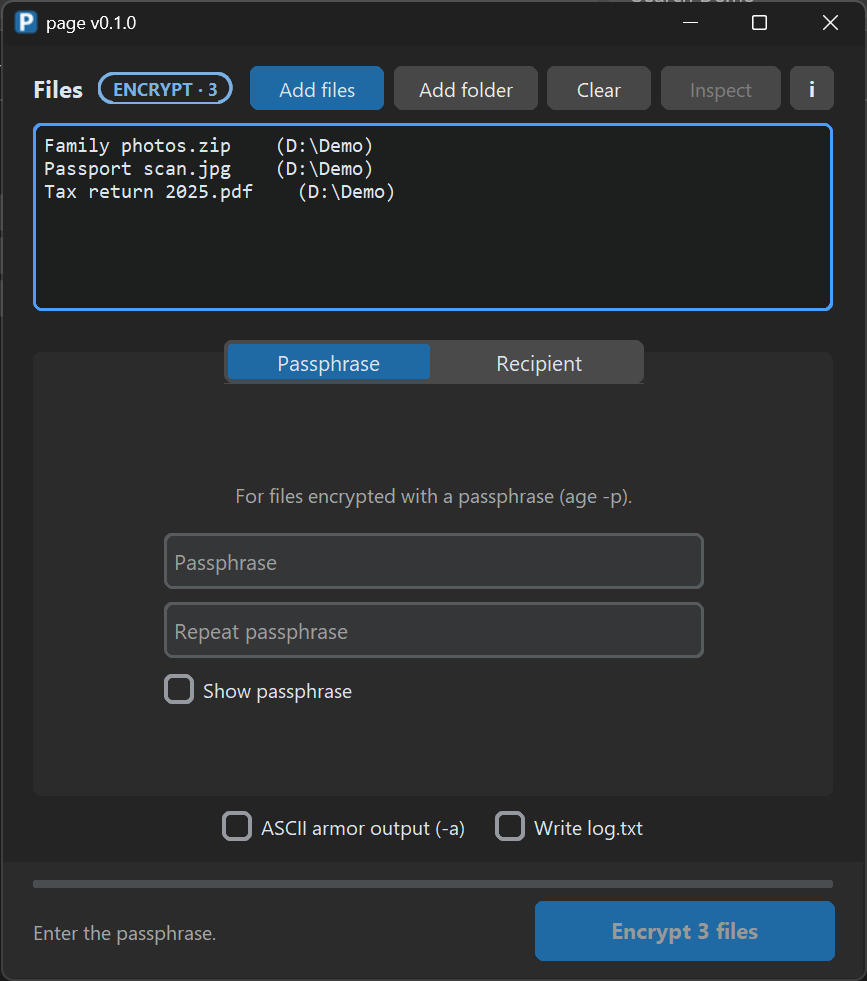
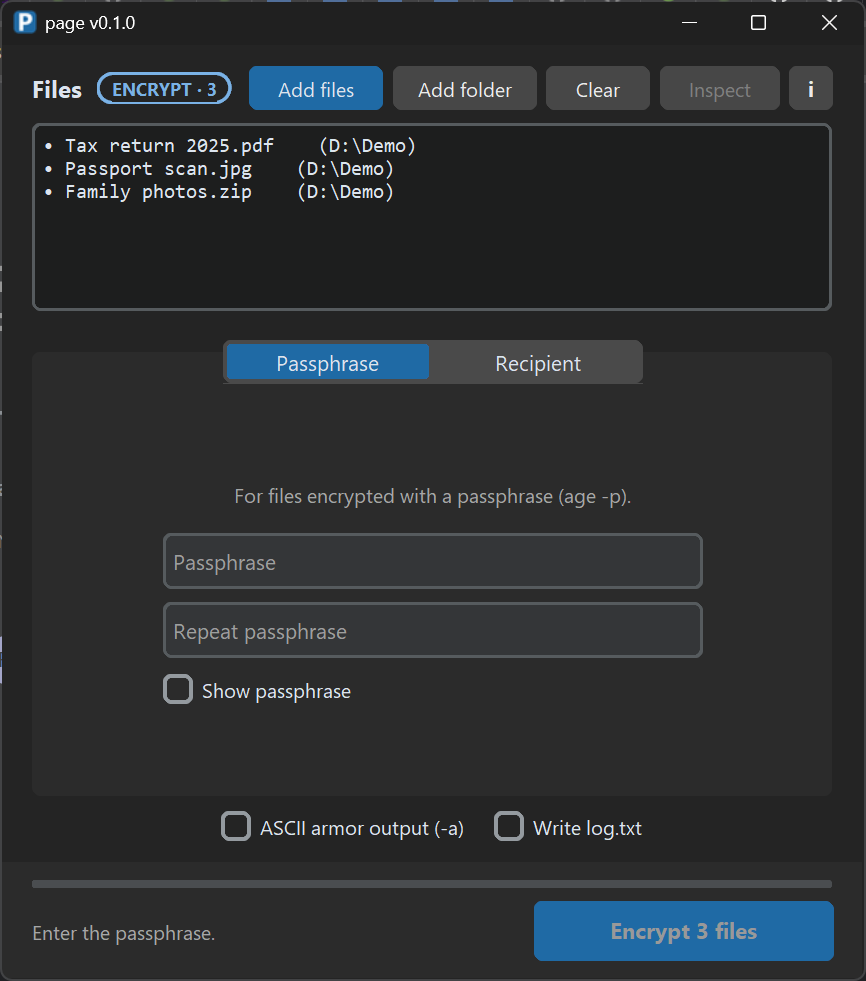
Log box: a bullet per line, wrapped text indented under it; new README screenshots

diff --git a/page.py b/page.py
@@ -85,6 +85,25 @@ ADMIN_WARNING = ("Warning: page is running as administrator. Windows hides drive
                  "from it, also blocks drag & drop from Explorer. Close page and start it normally.")
 
 
+BULLET = "• "
+SUB_BULLET = "  • "
+
+
+def bullet_lines(text):
+    """Split box text into (prefix, body, tag) lines: each line gets a bullet, a line
+    starting with spaces is a sub-item, and a blank line stays blank."""
+    out = []
+    for raw in text.split("\n"):
+        body = raw.strip()
+        if not body:
+            out.append(("", "", None))
+        elif raw[:1].isspace():
+            out.append((SUB_BULLET, body, "sub"))
+        else:
+            out.append((BULLET, body, "ln"))
+    return out
+
+
 def describe_add_error(path, exc):
     """Why a dropped or chosen path can't be added, as (text, drive_missing)."""
     drive = os.path.splitdrive(path)[0]
@@ -799,9 +818,20 @@ class AgeGui(ctk.CTk, TkinterDnD.DnDWrapper):
         self.file_box.configure(state="normal")
         if clear_first:
             self.file_box.delete("0.0", "end")
-        self.file_box.insert("end", text + "\n")
+        self._configure_bullet_tags()
+        for prefix, body, tag in bullet_lines(text):
+            self.file_box.insert("end", prefix + body + "\n", tag)
         self.file_box.see("end")
         self.file_box.configure(state="disabled")
+
+    def _configure_bullet_tags(self):
+        """Wrapped text lines up under the first word, after the bullet."""
+        if getattr(self, "_bullet_tags_ready", False):
+            return
+        font = tkfont.Font(font=self.file_box._textbox.cget("font"))
+        for tag, prefix in (("ln", BULLET), ("sub", SUB_BULLET)):
+            self.file_box.tag_config(tag, lmargin1=0, lmargin2=font.measure(prefix))
+        self._bullet_tags_ready = True
 
     def log_to_box(self, text, clear_first=False):
         """Thread-safe: Tk widgets are only touched from the main thread."""

diff --git a/tests/test_page.py b/tests/test_page.py
@@ -126,6 +126,17 @@ class AdminWarning(unittest.TestCase):
         self.assertNotIn("administrator", self.lines(False))
 
 
+class Bullets(unittest.TestCase):
+    def test_lines_sub_items_and_blanks(self):
+        got = page.bullet_lines("Drop files here.\n\n  .age files are decrypted.\nDone.")
+        self.assertEqual(got, [
+            (page.BULLET, "Drop files here.", "ln"),
+            ("", "", None),
+            (page.SUB_BULLET, ".age files are decrypted.", "sub"),
+            (page.BULLET, "Done.", "ln"),
+        ])
+
+
 class AddProblems(unittest.TestCase):
     """Dropped paths that can't be read are explained instead of "No files found"."""
 
